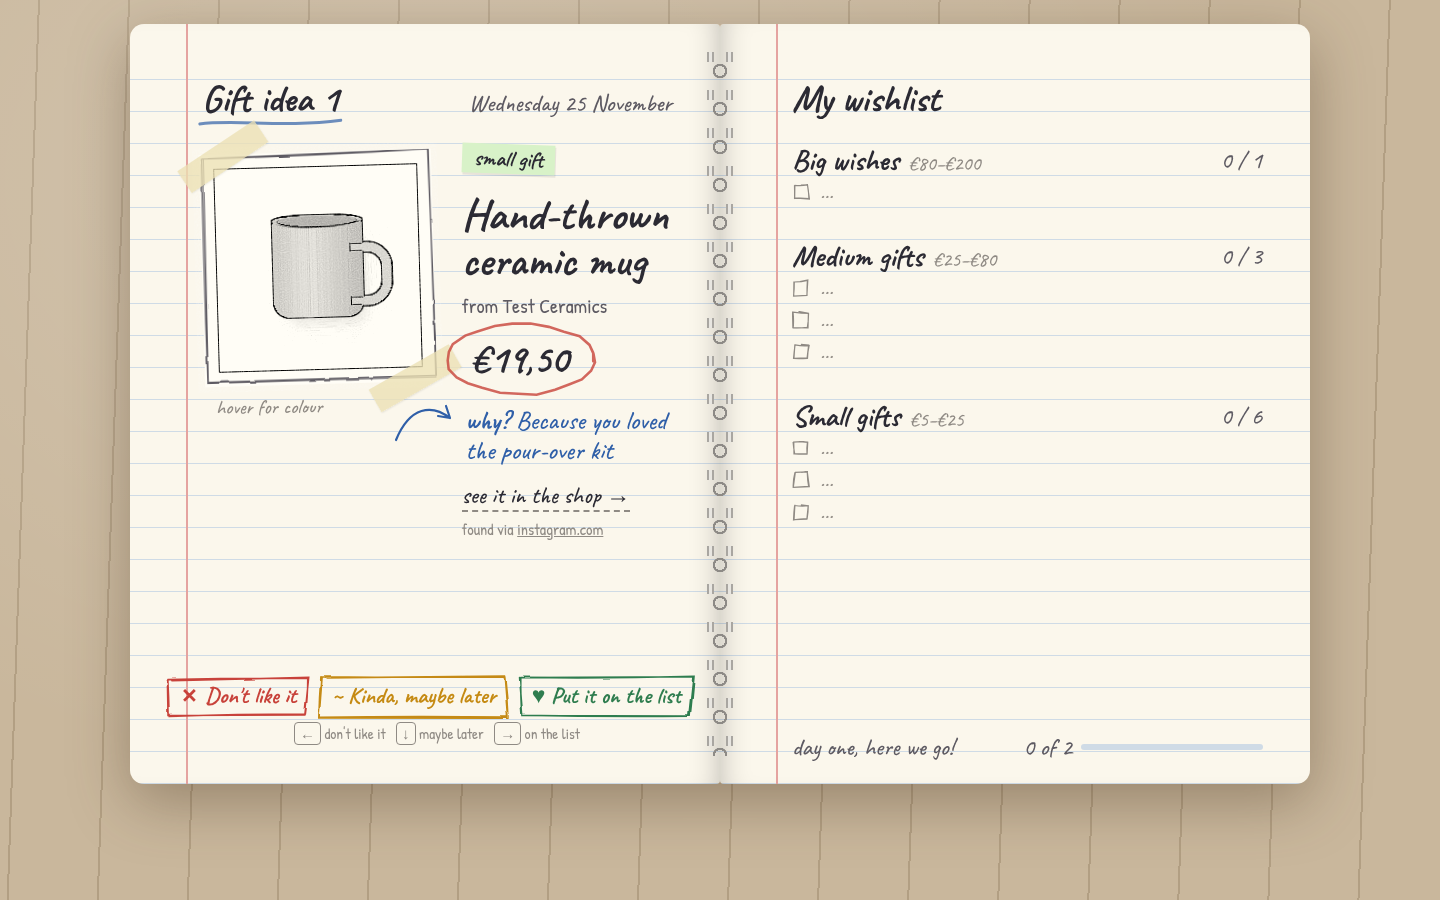
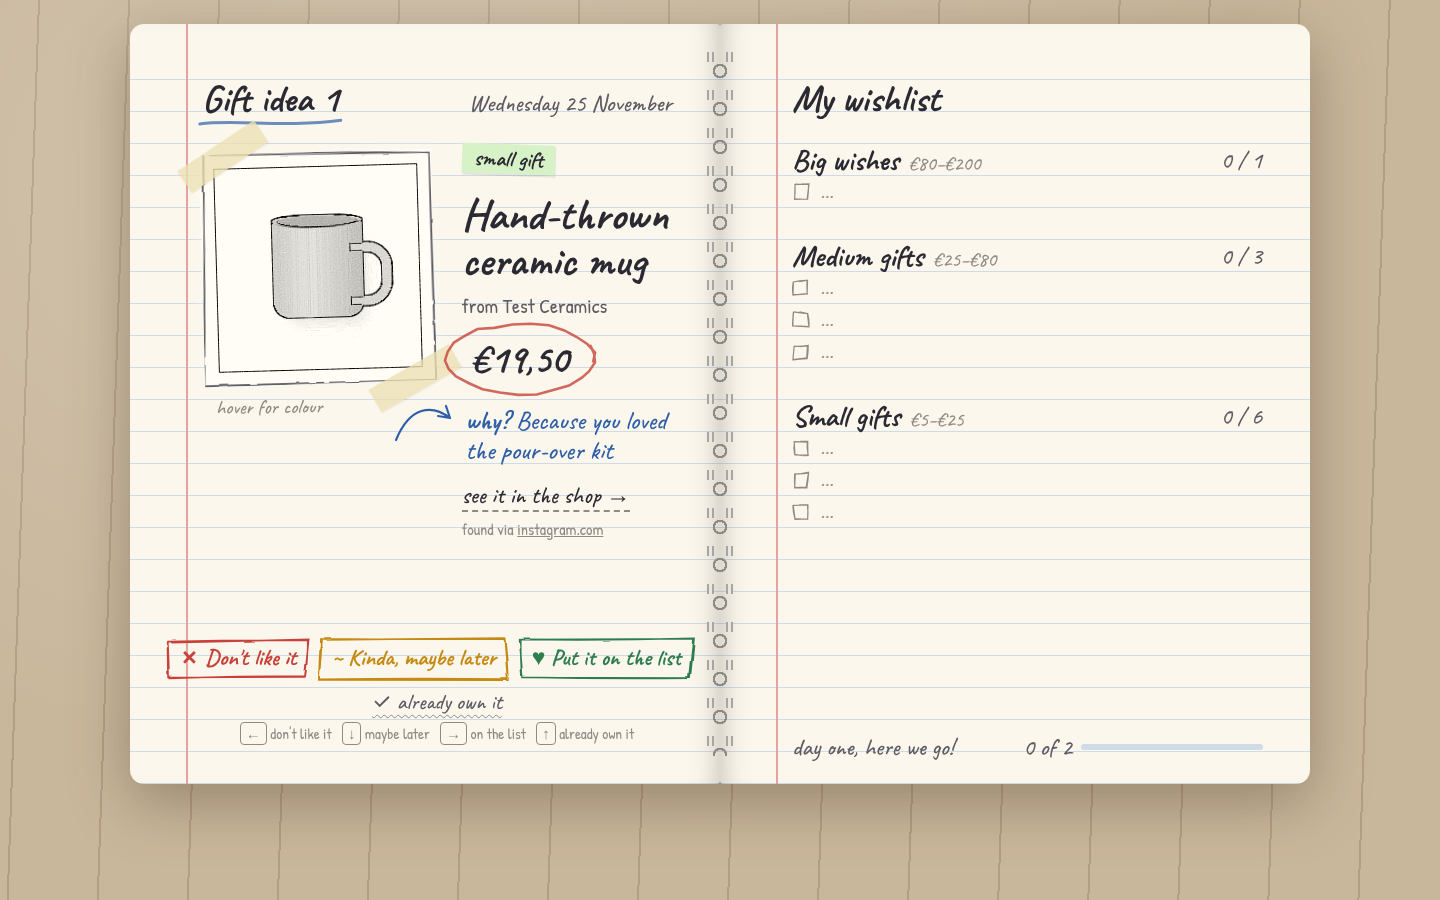
Add an "already own it" option to gift ideas
- New action "owned": the gift never comes back and does not go on the wishlist, but its tags
  count +0.7 for taste, since the user once chose it for themselves
- Swipes now store the gift's title and shop; stats list the owned gifts
- /learn writes them to a new "Already own" profile section; /scout never suggests those or near
  copies of them
- Notebook page: "already own it" link under the three buttons, up-arrow shortcut, blue stamp

Claude-Session: https://claude.ai/code/session_012Yg9zqrgYv8cMsH8uZT8P6

diff --git a/app/static/index.html b/app/static/index.html
@@ -110,6 +110,9 @@
   .btn:hover { transform: rotate(-2deg) scale(1.05); }
   .btn:active { transform: scale(.95); }
   .btn.nope { color: var(--red); } .btn.later { color: var(--gold); } .btn.like { color: var(--green); }
+  .own { display: block; margin: 8px auto 0; background: none; border: 0; cursor: pointer; font-family: var(--hand); font-size: 22px;
+         color: var(--pencil); text-decoration: underline wavy var(--faint) 1px; text-underline-offset: 5px; }
+  .own:hover { color: var(--blue); }
   .keys { text-align: center; font-size: 15px; color: var(--faint); margin-top: 6px; }
   kbd { font-family: var(--print); border: 1px solid var(--faint); border-radius: 4px; padding: 0 5px; }
 
@@ -310,8 +313,9 @@ function renderIdea() {
       <button class="btn later" data-a="later">${svgBox(220, 52, 'l' + index, 'var(--gold)')}~ Kinda, maybe later</button>
       <button class="btn like" data-a="like">${svgBox(220, 52, 'k' + index, 'var(--green)')}&#9829; Put it on the list</button>
     </div>
-    <div class="keys"><kbd>&larr;</kbd> don't like it &nbsp; <kbd>&darr;</kbd> maybe later &nbsp; <kbd>&rarr;</kbd> on the list</div>`;
-  box.querySelectorAll('.btn').forEach(b => b.onclick = () => act(b.dataset.a));
+    <button class="own" data-a="owned">&#10003; already own it</button>
+    <div class="keys"><kbd>&larr;</kbd> don't like it &nbsp; <kbd>&darr;</kbd> maybe later &nbsp; <kbd>&rarr;</kbd> on the list &nbsp; <kbd>&uarr;</kbd> already own it</div>`;
+  box.querySelectorAll('.btn, .own').forEach(b => b.onclick = () => act(b.dataset.a));
   renderProgress();
 }
 
@@ -369,7 +373,7 @@ async function act(action) {
   if (action === 'dismiss') {
     page.insertAdjacentHTML('beforeend', `<svg class="cross" viewBox="0 0 100 100" preserveAspectRatio="none"><path d="M12 18 C40 46 62 66 88 86 M86 16 C60 40 38 62 14 88" fill="none" stroke="var(--red)" stroke-width="1.4" stroke-linecap="round" opacity=".75"/></svg>`);
   } else {
-    page.insertAdjacentHTML('beforeend', `<div class="stamp-text" style="color:${action === 'later' ? 'var(--gold)' : 'var(--green)'}">${action === 'later' ? 'maybe later&hellip;' : 'on the list!'}</div>`);
+    page.insertAdjacentHTML('beforeend', `<div class="stamp-text" style="color:${{later: 'var(--gold)', owned: 'var(--blue)'}[action] || 'var(--green)'}">${{later: 'maybe later&hellip;', owned: 'got it already!'}[action] || 'on the list!'}</div>`);
   }
   const res = await fetch('/api/swipe', {method: 'POST', headers: {'Content-Type': 'application/json'}, body: JSON.stringify({id: card.id, action})}).then(r => r.json());
   if (!res.error) { summary = res; if (action === 'like') lastAdded = card.id; renderWishlist(); }
@@ -412,6 +416,7 @@ document.addEventListener('keydown', e => {
   if (e.key === 'ArrowRight') act('like');
   if (e.key === 'ArrowLeft') act('dismiss');
   if (e.key === 'ArrowDown') { e.preventDefault(); act('later'); }
+  if (e.key === 'ArrowUp') { e.preventDefault(); act('owned'); }
 });
 
 $('#today').textContent = new Date().toLocaleDateString('en-GB', { weekday: 'long', day: 'numeric', month: 'long' });

diff --git a/app/giftfeed.py b/app/giftfeed.py
@@ -19,7 +19,9 @@ ROOT = Path(__file__).resolve().parent.parent
 TIERS = ("big", "medium", "small")
 
 # How much each action counts when learning taste.
-ACTION_WEIGHTS = {"love": 2.0, "like": 1.0, "later": 0.3, "dismiss": -1.0, "removed": -0.5}
+# "Already own it": they chose this kind of thing for themselves once, so it is a good taste signal,
+# but the item itself never comes back and never goes on the wishlist.
+ACTION_WEIGHTS = {"love": 2.0, "like": 1.0, "owned": 0.7, "later": 0.3, "dismiss": -1.0, "removed": -0.5}
 # "Kinda, maybe later" brings a gift back on another day, at most this many times.
 MAX_LATER = 2
 CARD_KINDS = ("fit", "explore", "wildcard")
@@ -321,7 +323,7 @@ def interleave(cards: list[dict]) -> list[dict]:
 
 # ---------------------------------------------------------------- swipes
 
-SWIPE_STATUS = {"like": "liked", "love": "loved", "later": "later", "dismiss": "dismissed", "removed": "removed"}
+SWIPE_STATUS = {"like": "liked", "love": "loved", "owned": "owned", "later": "later", "dismiss": "dismissed", "removed": "removed"}
 
 
 def record_swipe(p: Paths, card_id: str, action: str, answer: str | None = None) -> dict:
@@ -343,7 +345,7 @@ def record_swipe(p: Paths, card_id: str, action: str, answer: str | None = None)
         if action == "later":
             card["later_count"] = int(card.get("later_count", 0)) + 1
         entry = {
-            "at": now_iso(), "card": card_id, "action": action,
+            "at": now_iso(), "card": card_id, "action": action, "title": card["title"], "shop": card["shop"],
             "tier": card["tier"], "price": card["price"], "tags": card["tags"], "kind": card["kind"],
         }
     save_card(p, card)
@@ -374,7 +376,10 @@ def taste_stats(swipes: list[dict]) -> dict:
     tier_actions: dict[str, Counter] = {t: Counter() for t in TIERS}
     tier_prices: dict[str, dict[str, list[float]]] = {t: {"kept": [], "dismissed": []} for t in TIERS}
     answers = []
+    owned = []
     for s in swipes:
+        if s["action"] == "owned":
+            owned.append(s.get("title") or s["card"])
         if s["action"] == "answer":
             answers.append({"question": s["question"], "answer": s["answer"]})
             continue
@@ -406,6 +411,7 @@ def taste_stats(swipes: list[dict]) -> dict:
             for t in TIERS
         },
         "answers": answers,
+        "already_owned": owned,
     }
 
 

diff --git a/tests/test_giftfeed.py b/tests/test_giftfeed.py
@@ -129,6 +129,17 @@ class SwipeTests(Base):
         self.assertFalse(gf.comes_back_today(saved, date.fromordinal(tomorrow)))
         self.assertNotIn("Gift 1", self.p.wishlist.read_text())
 
+    def test_already_own_it(self):
+        c = gf.add_card(self.p, card(1, 10, tags=["board-games"]), SETTINGS)
+        gf.record_swipe(self.p, c["id"], "owned")
+        cards = gf.load_cards(self.p)
+        self.assertEqual(cards[0]["status"], "owned")
+        self.assertEqual(gf.build_deck(SETTINGS, cards), [])  # never shown again
+        self.assertNotIn("Gift 1", self.p.wishlist.read_text())  # not on the wishlist
+        stats = gf.taste_stats(gf.load_swipes(self.p))
+        self.assertEqual(stats["likes"], [("board-games", 0.7)])
+        self.assertEqual(stats["already_owned"], ["Gift 1"])
+
     def test_question_answer(self):
         q = gf.add_card(self.p, {"type": "question", "question": "Tea?", "options": ["Yes", "No"]}, SETTINGS)
         gf.record_swipe(self.p, q["id"], "answer", "Yes")

diff --git a/.claude/commands/scout.md b/.claude/commands/scout.md
@@ -14,8 +14,8 @@ Add the URL to the right list in `me/sources.md` ("Favourite websites" or "Insta
 Goal: add enough good, real, buyable gift cards for the next deck. Quality beats quantity. Never invent a product, URL, price or image URL: every card must come from a page you actually read.
 
 1. Run `python3 app/cli.py status --urls`. It tells you the user's price tiers, how many cards are still needed per tier (`cards_to_find`) and every product URL already found. Skip products already in `known_urls`. If every tier needs 0 cards, say the deck is already full and stop.
-2. Read `me/profile.md` (interests, style, likes, dislikes, curious about, hard no-gos) and `me/sources.md`.
-3. Plan the mix. Of the cards you add, roughly 70% should closely fit the profile (`"kind": "fit"`), 20% should explore an interest from "Curious about" or one the user has not seen yet (`"kind": "explore"`), and 10% can be a surprising wildcard (`"kind": "wildcard"`). Respect the hard no-gos always.
+2. Read `me/profile.md` (interests, style, likes, dislikes, curious about, hard no-gos, already own) and `me/sources.md`.
+3. Plan the mix. Of the cards you add, roughly 70% should closely fit the profile (`"kind": "fit"`), 20% should explore an interest from "Curious about" or one the user has not seen yet (`"kind": "explore"`), and 10% can be a surprising wildcard (`"kind": "wildcard"`). Respect the hard no-gos always, and never suggest anything listed under "Already own" or a near copy of it (the same product from another shop, or a different colour of it). Products in the same category are fine, for example a different board game.
 4. Find products, in this order:
    a. **Favourite websites** from `sources.md`: look for products on those sites that fit the profile and price tiers.
    b. **Instagram gift guides** from `sources.md`: try to read the post or account. Instagram often blocks automated reads. If you cannot read it, tell the user and ask them to paste the caption or drop in a screenshot of the post; then read that. Take the products named in the guide and find each one in a shop where it can be bought. Use the shop's product page and photo, never the creator's photo. Put the Instagram link in the card's `source` as credit.

diff --git a/README.md b/README.md
@@ -44,7 +44,7 @@ Repeat `/scout` and `/feed` each day. Want to try the notebook first? Run
 | `/scout` | Finds new gift ideas that fit your profile, checks each link and price, and adds them to your feed. |
 | `/scout add-site <url>` | Adds a shop or blog you like. `/scout` checks it first on every run. |
 | `/scout add-insta <url>` | Adds an Instagram gift guide post or account. Claude finds the products it mentions in a shop. |
-| `/feed` | Today's gift notebook in your browser (→ put it on the list, ↓ kinda, maybe later, ← don't like it), then `/learn`. |
+| `/feed` | Today's gift notebook in your browser (→ put it on the list, ↓ kinda, maybe later, ← don't like it, ↑ already own it), then `/learn`. |
 | `/learn` | Updates your likes, dislikes and "curious about" from your latest swipes. Runs after `/feed` automatically. |
 | `/wishlist` | Shows your list by tier. Use `remove <id>` to drop an item, `check` to find dead links, and `export` to make a page you can share with family. |
 
@@ -55,7 +55,8 @@ Repeat `/scout` and `/feed` each day. Want to try the notebook first? Run
   what your wishlist still needs, so it is never all expensive items.
 - **Your choices become taste.** Each gift has tags such as `coffee`, `hiking` or `handmade`.
   "Put it on the list" pushes its tags up and "Don't like it" pushes them down. "Kinda, maybe later"
-  counts a little in favour and brings the gift back on another day, at most twice. `/learn` writes the result into
+  counts a little in favour and brings the gift back on another day, at most twice. "Already own it"
+  never shows the gift again, but counts in favour of its tags, because you once picked it yourself. `/learn` writes the result into
   `me/profile.md` as plain text you can read and edit.
 - **It keeps exploring.** About 20% of each deck explores topics you haven't seen yet, and 10% is a
   wildcard, so your feed doesn't shrink to one hobby.

diff --git a/.claude/commands/learn.md b/.claude/commands/learn.md
@@ -2,11 +2,12 @@
 description: Update your gift profile from your latest swipes
 ---
 
-1. Run `python3 app/cli.py stats`. It summarises the swipes since the last /learn: tag scores (on the list +1, maybe later +0.3, don't like it -1, removed from the wishlist -0.5), price comfort per tier and answers to bonus questions. If there are no new swipes, say so and stop.
+1. Run `python3 app/cli.py stats`. It summarises the swipes since the last /learn: tag scores (on the list +1, already own it +0.7, maybe later +0.3, don't like it -1, removed from the wishlist -0.5) and the gifts the user already owns, price comfort per tier and answers to bonus questions. If there are no new swipes, say so and stop.
 2. Update `me/profile.md`, keeping its headings and anything the user wrote by hand:
    - **Likes**: tags with a positive score, strongest first, with the running score in brackets, for example `- cooking (+5)`. Merge with the existing list and add up the scores.
    - **Dislikes**: tags with a clearly negative score. A tag needs at least two dismissals before it becomes a dislike.
    - **Curious about**: drop topics that are now clearly liked or disliked; add one or two related topics the user has not seen yet, so the feed keeps exploring.
+   - **Already own**: add every item from `already_owned` (title only), so `/scout` never suggests it or a near copy again.
    - **Bonus answers**: add the new answers.
    Never change a hard no-go, and never move the price tiers or counts in `me/settings.json` yourself. If the stats show the user keeps dismissing the most expensive items in a tier (the average dismissed price is clearly above the average kept price, over at least 5 swipes in that tier), suggest a lower range to the user and only change it with `python3 app/cli.py settings ...` if they agree.
 3. Run `python3 app/cli.py mark-learned`.

diff --git a/.claude/commands/feed.md b/.claude/commands/feed.md
@@ -5,5 +5,5 @@ description: Play today's swipe game in your browser, then learn from your swipe
 1. Run `python3 app/feed.py` with a long timeout (30 minutes). It opens today's deck in the user's browser and waits until they finish swiping, then exits by itself.
    - If it says there are no new cards, suggest `/scout` and stop.
    - If the browser does not open, give the user the URL that the script printed.
-   - Tell the user, while it runs, that for each gift they can pick "Put it on the list" (→), "Kinda, maybe later" (↓, it comes back another day) or "Don't like it" (←).
+   - Tell the user, while it runs, that for each gift they can pick "Put it on the list" (→), "Kinda, maybe later" (↓, it comes back another day) or "Don't like it" (←), and "already own it" (↑) for things they have already.
 2. When the script has exited, run the steps of the `/learn` command right away (read `.claude/commands/learn.md` and follow it).

diff --git a/templates/profile.md b/templates/profile.md
@@ -27,6 +27,10 @@
 <!-- Never suggest these, e.g. "no clothing", "no alcohol" -->
 -
 
+## Already own
+<!-- Things you already have: /scout never suggests these or near copies of them -->
+-
+
 ## Bonus answers
 <!-- Answers to the daily bonus questions -->
 -

diff --git a/examples/profile.md b/examples/profile.md
@@ -23,5 +23,8 @@
 ## Hard no-gos
 - no clothing
 
+## Already own
+-
+
 ## Bonus answers
 -
